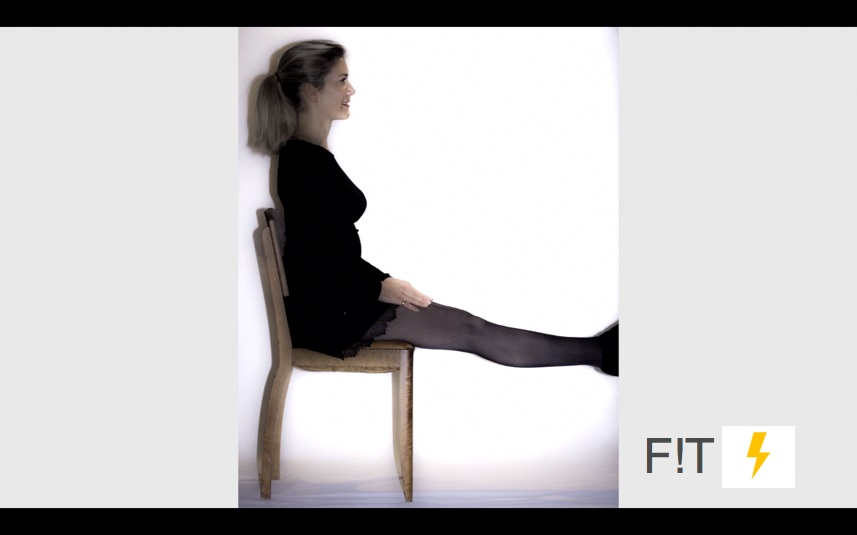
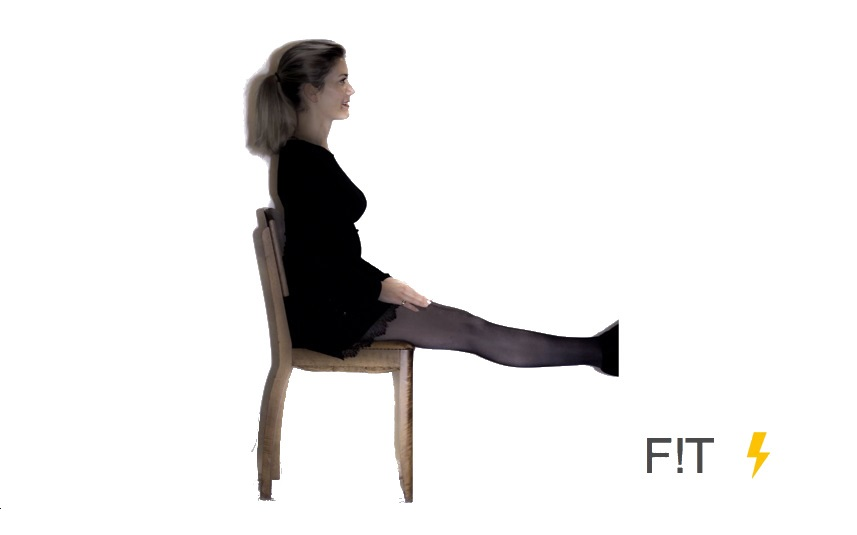
carousel fixed

diff --git a/app/assets/stylesheets/spacefit.scss b/app/assets/stylesheets/spacefit.scss
@@ -217,21 +217,12 @@ float: right!important;
 
     height: inherit;
     .item{
-      margin: 20% 20%;
-      div{
-
+      img{
+        margin: 0% 10%;
+        width: 80%;
         height: inherit;
       }
 
-      #image3{
-        background: image_url("Stretch_Up_Welcome.jpg") no-repeat center / cover;
-      }
-      #image2{
-        background: image_url("RLX_Welcome.jpg") no-repeat center / cover;
-      }
-      #image1{
-        background: image_url("Fit_Seatted_Welcome.jpg") no-repeat center / cover;
-      }
     }
   }
 }

diff --git a/config/initializers/initializers.rb b/config/initializers/initializers.rb
@@ -20,9 +20,9 @@
 Rails.application.config.middleware.use OmniAuth::Builder do
 		#Facebook
 		provider :facebook, ENV['FB_APP_ID'], ENV['FB_APP_SECRET'],
-		info_fields: ['email',"public_profile "].join(',')
+		info_fields: ['email',"public_profile "].join(','),
 		scope: ['email',
-			'user_name'
+			'user_name',
 			'user_birthday',
 			'user_relationship_details'].join(',')
 		end
